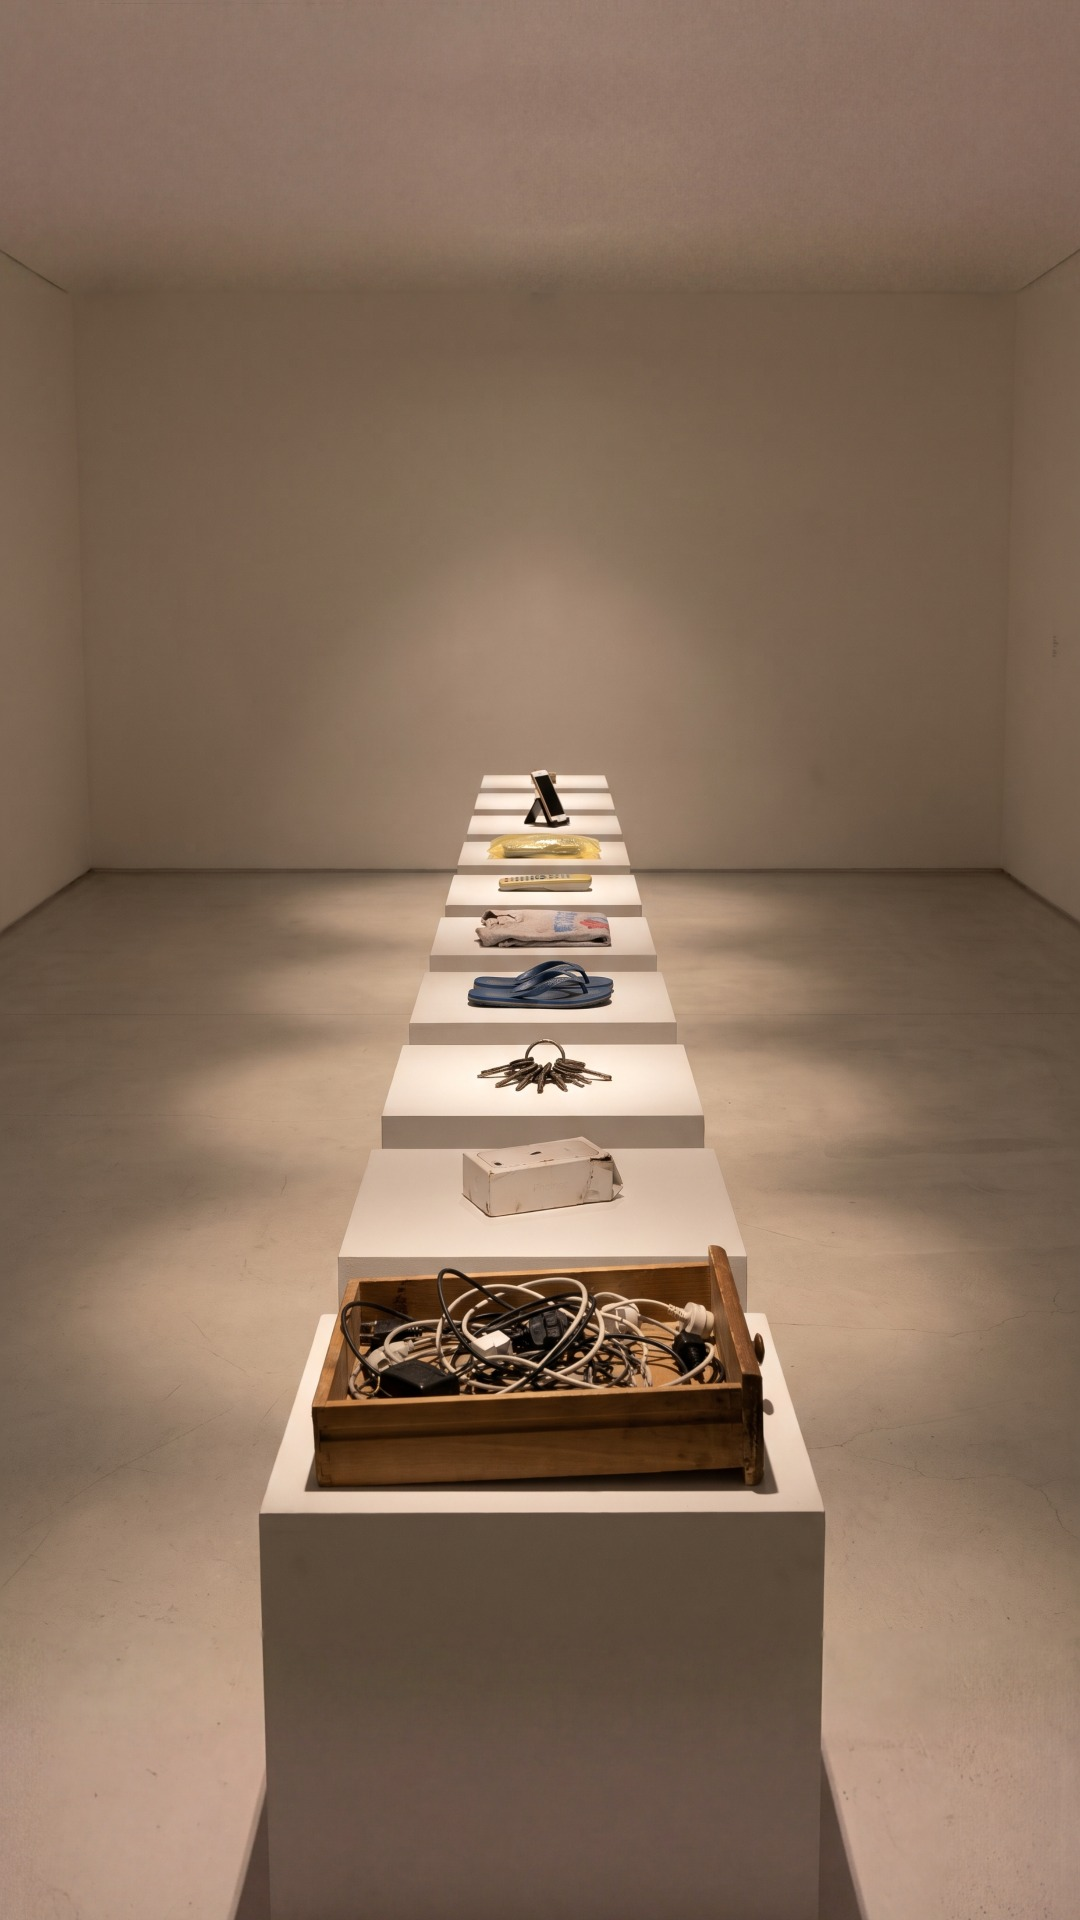
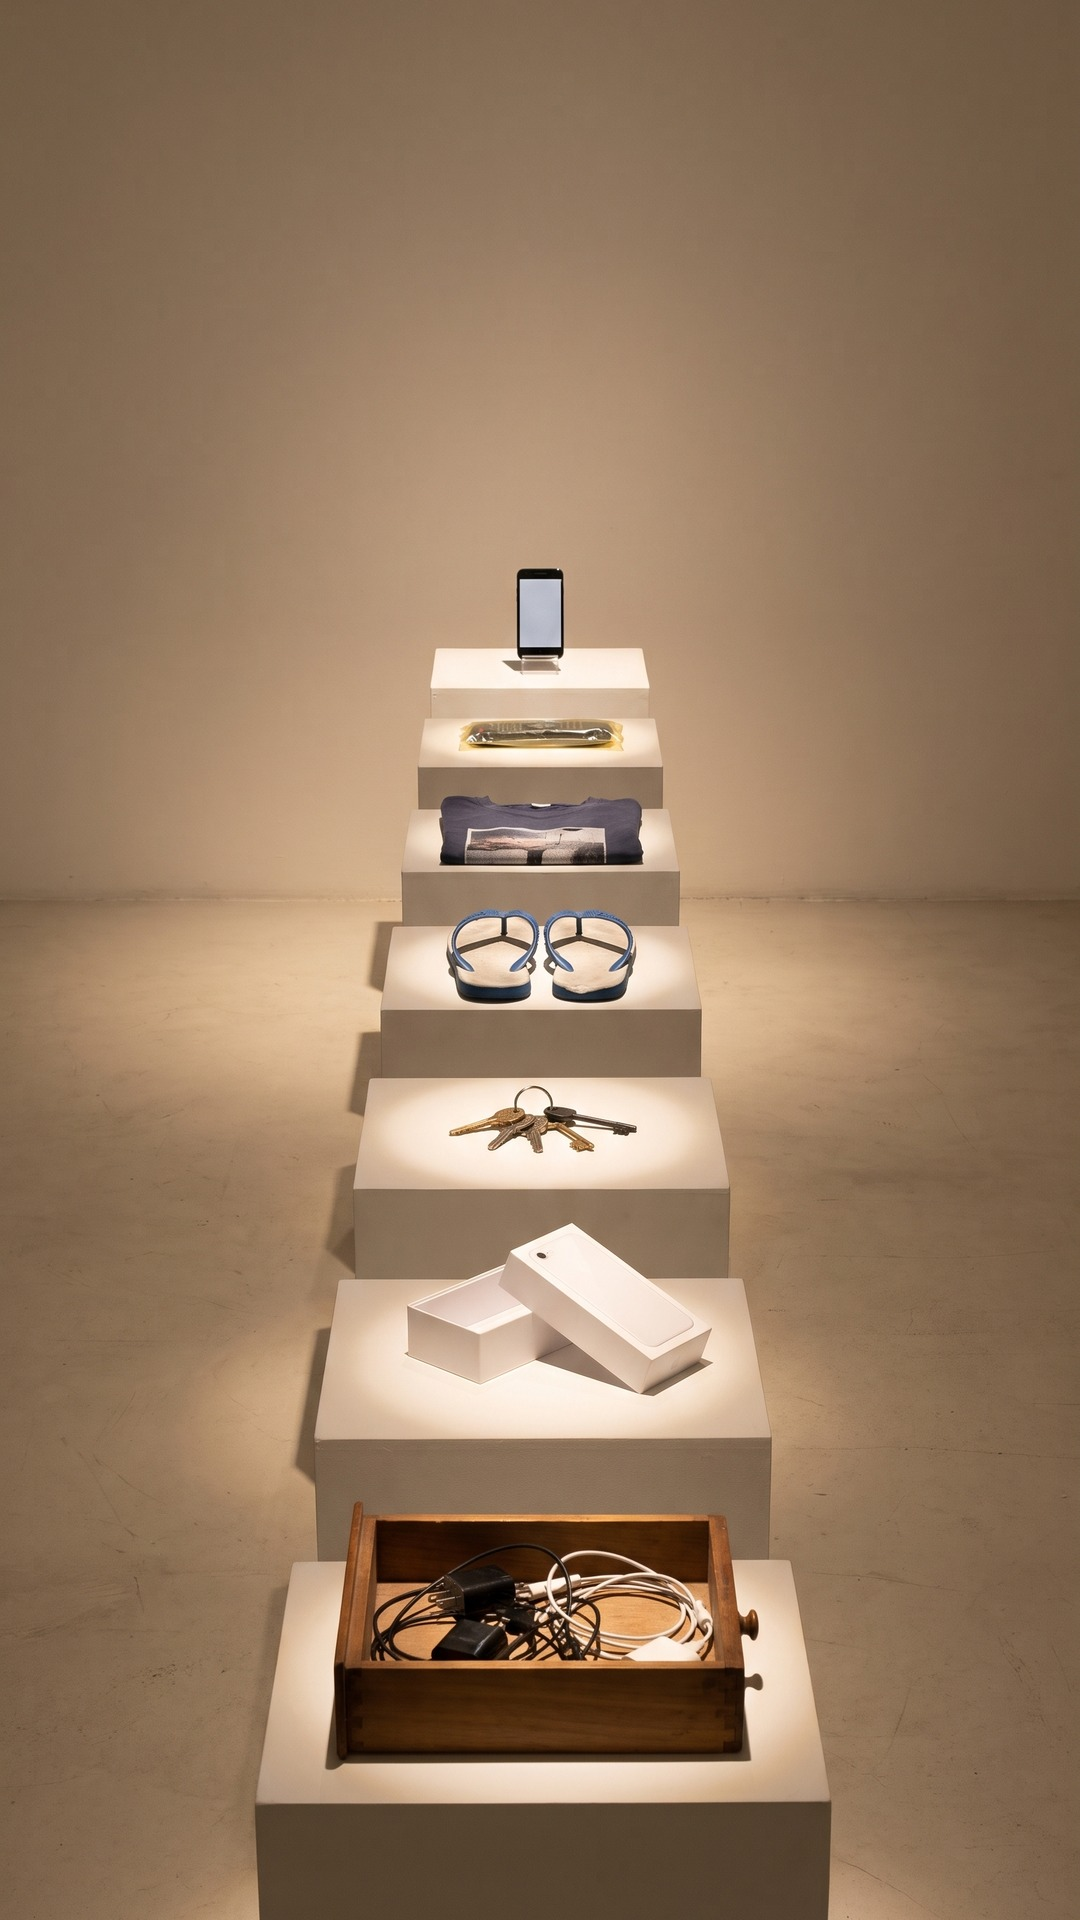
Museum of Men: row-of-exhibits v2 with objects matched to exhibits 1-7
Nano Banana Pro, scene + 7 exhibit images as references. 4:5 and 9:16
picks, candidates, comparison sheet, README. F0-row.jpg replaced with
the 9:16 pick.

Claude-Session: https://claude.ai/code/session_01ETPVMMMxjR4p8A7NSyhkYB

diff --git a/productions/2026-11-museum-of-men/assets/gen/row-v2/README.md b/productions/2026-11-museum-of-men/assets/gen/row-v2/README.md
@@ -1,0 +1,44 @@
+# Row of exhibits v2: matched objects (provenance record)
+
+**Why:** `../pick/slide-09.png` (the long row of plinths) was generated on its own, so its objects did not match exhibits 1-7 (`../pick/slide-02..08.png`). The art director flagged it. This folder regenerates the row so each plinth carries the exhibit's own object.
+
+- **Model:** `gemini-3-pro-image` (Nano Banana Pro) via Gemini API `generateContent`, `responseModalities: [IMAGE]`, `imageSize: 2K`. Date: 2026-11-19. Generated by Claude (Showrunner session) in autonomous mode for this one task.
+- **Image inputs (in this order):** (1) the scene reference: `../pick/slide-09.png` in rounds 1-2, and the round-2 9:16 pick in round 3 (see below); (2-8) `../pick/slide-02.png` … `slide-08.png`, the exact objects, nearest to farthest. The inputs were downscaled to 1024-1280 px JPEG for the request.
+- **Prompts:** full text in `prompt-round2-9x16.txt` (the 9:16 pick) and `prompt-round3-4x5.txt` (the 4:5 pick). In short: recreate the camera, gallery, plinth row and dim warm closing-time light of image 1, with exactly 7 plinths holding exactly the objects of images 2-8 in order. No text or logos, nothing else on the plinths, top quarter plain wall.
+- **Disclosure:** fully AI-generated; inputs were our own earlier AI-generated images only.
+
+## Files
+
+| File | What |
+|---|---|
+| `r1-*-c1..4.jpg` | Round 1, 4 candidates per aspect (JPEG q88) |
+| `r2-*-c1..4.jpg` | Round 2, 4 per aspect: added explicit counting rules plus "ignore image 1's objects" |
+| `r3-4x5-c1..4.jpg` | Round 3, 4:5 only: the 9:16 pick used as the scene and object reference, reframed to 4:5 |
+| `pick-9x16.png` | **9:16 pick** = `r2-9x16-c3` (1536×2752) |
+| `pick-4x5.png` | **4:5 pick** = `r3-4x5-c3` (1856×2304, same size as the carousel source). Replaces `../pick/slide-09.png` for use. The old file is left untouched. |
+| `comparison.jpg` | Each exhibit (left) next to its plinth crop in the 9:16 pick (middle) and the 4:5 pick (right) |
+| `../../../../2026-11-museum-of-men-video/gpu-kit/flow-frames/F0-row.jpg` | **Overwritten** with the 9:16 pick: resized to 1080 wide, centre-cropped to 1080×1920 (7 px trimmed top and bottom), JPEG q92 |
+
+## How the picks were chosen
+
+I checked every candidate at full width and in zoomed crops of the far half of the row, where the errors live.
+
+- **Round 1 (8 images):** no candidate had exactly 7 correct objects. The failures were extra or empty plinths, a duplicated T-shirt or chappals, the remote split into a "sleeve" and a "remote" on two plinths, all-blue chappals instead of white footbeds, and black phone screens. All rejected.
+- **Round 2 (8 images):** `9x16-c3` is the first clean one: 7 plinths and 7 objects in order. It has white-footbed blue-strap chappals, a brass, silver and iron key ring, a navy tee with a photo print, the remote inside a yellowed sleeve, and a phone with a blank light-grey screen. The other 9:16 candidates had empty or extra plinths, or a light grey tee with a red/blue print. `4x5-c1` also had 7 objects, but the tee print had lettering (a "college" style word), and its flat light lost the moody tone. Rejected. The other 4:5 candidates had duplicates or empty plinths.
+- **Round 3 (4:5 only, 4 images):** using the 9:16 pick as the reference kept the objects locked. `c3` matches the 9:16 pick most closely: 7 plinths, the same keys including the long iron key, the same chappals, tee, remote and phone. `c4` had an empty extra plinth. `c2` had all-blue chappals. `c1` was close, but its keys lacked the iron key.
+
+Both picks: the top ~25-30% is plain wall (the 4:5 pick's farthest phone sits at about 30% height), the light is dark and warm with a pool on each plinth, and there is no readable text at zoom. Six rounds were run in total across both aspects: 2 for 9:16 and 3 for 4:5, within the 3-round limit per aspect.
+
+## Honest differences that remain (see `comparison.jpg`)
+
+The objects are the same kind, colour and order as the exhibits and read as the same things at feed size. They are **not pixel-identical**, and a close look shows:
+
+1. **Drawer:** the same old wooden drawer with a knob. It holds fewer, looser cables than exhibit 1's dense tangle.
+2. **Phone box:** the biggest miss. It is white with a leaning lid, as in the exhibit. But it is clean and sleek with a small dark camera-hole dot on the lid, while exhibit 2 is scuffed and yellowed at the edges with a visible moulded tray.
+3. **Keys:** a steel ring with brass, silver and a long dark iron key, the right mix. There are about 6 keys against the exhibit's 9, and the black-headed scooter key is not clear.
+4. **Chappals:** a close match: white footbeds, blue straps, toes forward. The safety pin is not visible at this scale.
+5. **T-shirt:** the right navy colour, folded, with a photo print. The print is a pale landscape-like photo, not exhibit 5's brownish figure print.
+6. **Remote:** a close match: a dark remote inside a yellowed, creased clear sleeve.
+7. **Phone:** black, on a clear stand, blank light-grey screen. It has a top and bottom bezel (older style), while exhibit 7 is a full-screen notch phone.
+
+If the phone box (2) or tee print (5) mismatch matters at the size it is used, the fastest fix is a local inpaint of that one plinth with the exhibit image as reference, not another full regeneration.
